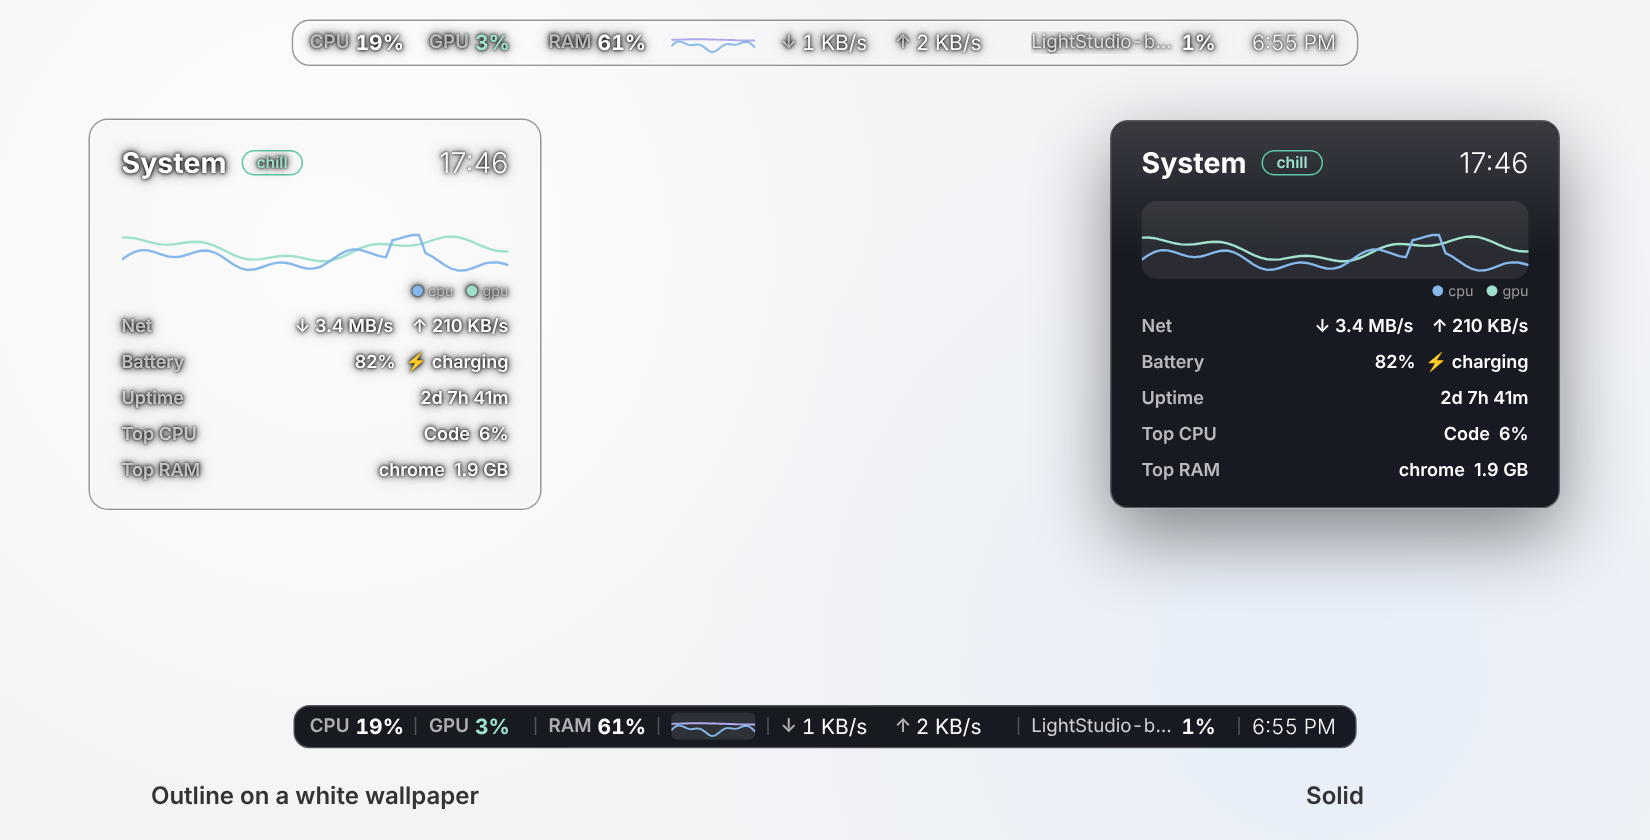
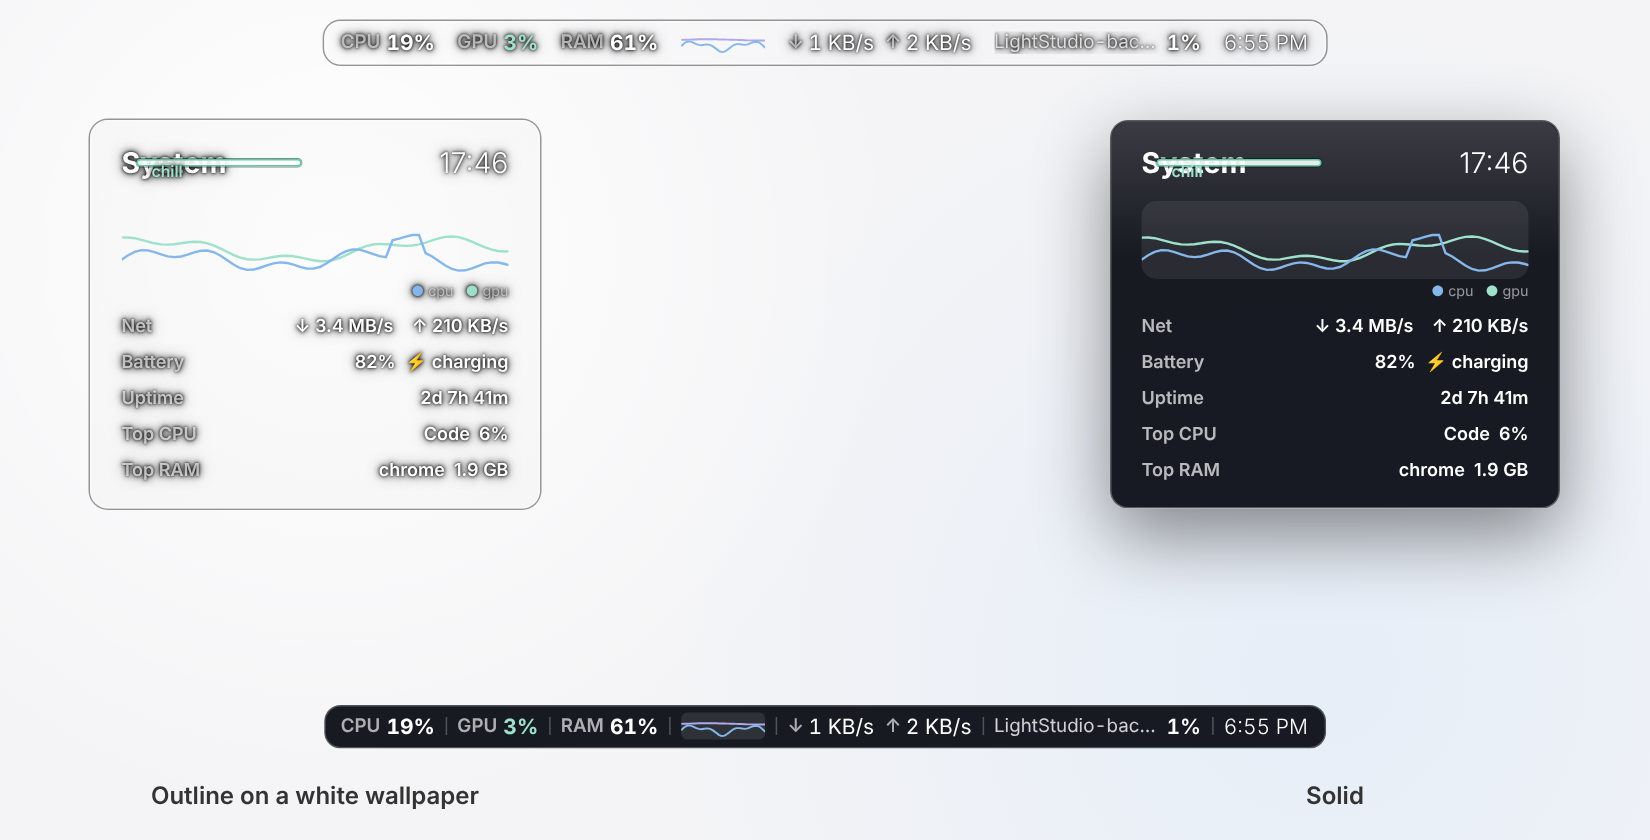
Tighter overlay: items hug their text, grow-only widths
- Removed the fixed per-value widths (32/60/96/30/80/52/44/38 px)
- Each segment sizes to its content; after every update its MinWidth
  ratchets up to its current width and never shrinks while running,
  so the bar is tight but a centered bar still never jumps
- Widths reset when overlay metrics or the clock format change
- Dividers 8 -> 7 px each side, label gap 4 -> 3 px, padding 10 -> 9 px
- Top app names: MaxWidth 110 / 100 px with ellipsis
- Preview images re-rendered

Closes #20

Claude-Session: https://claude.ai/code/session_01RP7FEh2wzL7y17a24F9dcJ

diff --git a/README.md b/README.md
@@ -124,7 +124,7 @@ LiquidHUD checks the cursor position every 70 ms, and only while auto-hide is on
 
 > In games that lock or hide the cursor (most FPS games), you can't hover the bar. Untick **Auto-hide** to keep the full overlay visible while you play.
 
-The bar is compact: thin dividers between items, a 56×18 mini graph (blue = CPU, purple = RAM), and fixed widths so it never jumps while it's running.
+The bar is compact: thin dividers between items, a 56×18 mini graph (blue = CPU, purple = RAM), and every item sized to its text. Item widths can only **grow, never shrink**, while it's running, so the bar stays tight and a centered bar never jumps.
 
 ![Outline and Solid on a white wallpaper](docs/images/light.png)
 
@@ -233,7 +233,8 @@ These are estimates. Open **Settings** to see the live numbers on your machine.
 
 | Version | What changed | Issues |
 |---|---|---|
-| **v10** | Overlay **auto-hide**: a thin iPhone-style bar when idle, which expands when you hover it | #18 |
+| **v10.1** | A tighter overlay: items sized to their text, with grow-only widths | #20 |
+| v10 | Overlay **auto-hide**: a thin iPhone-style bar when idle, which expands when you hover it | #18 |
 | v9 | Compact overlay with dividers and a mini CPU + RAM graph. Outline now readable on white wallpapers (dark ring and text halo) | #14, #15, #16 |
 | v8 | 12h / 24h clock, **Bottom center** position, a fixed-width overlay that no longer jumps when centered, a separate metric list for the overlay, and a thinner Outline frame | #9, #10, #11, #12 |
 | v7 | Clear rendering only: Acrylic, Mica and the background sliders are removed. Added the **Outline / Solid** look and **Show** toggles for the widget and the overlay | #5, #6, #7 |
